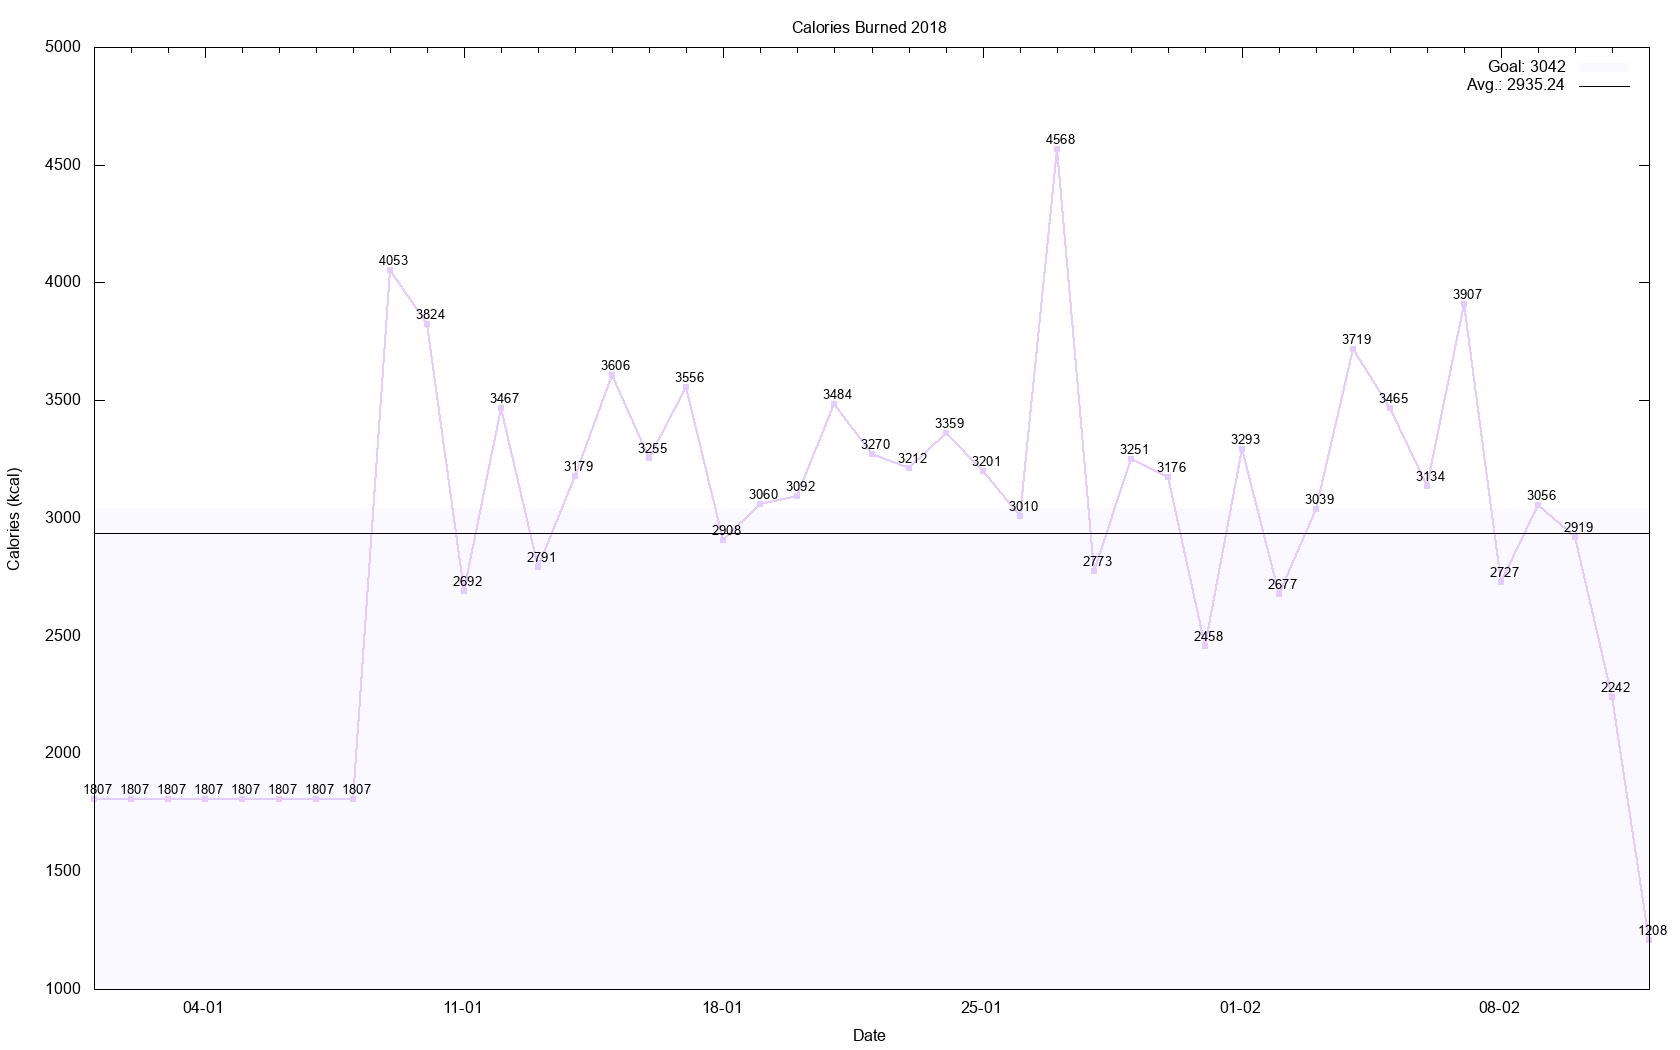
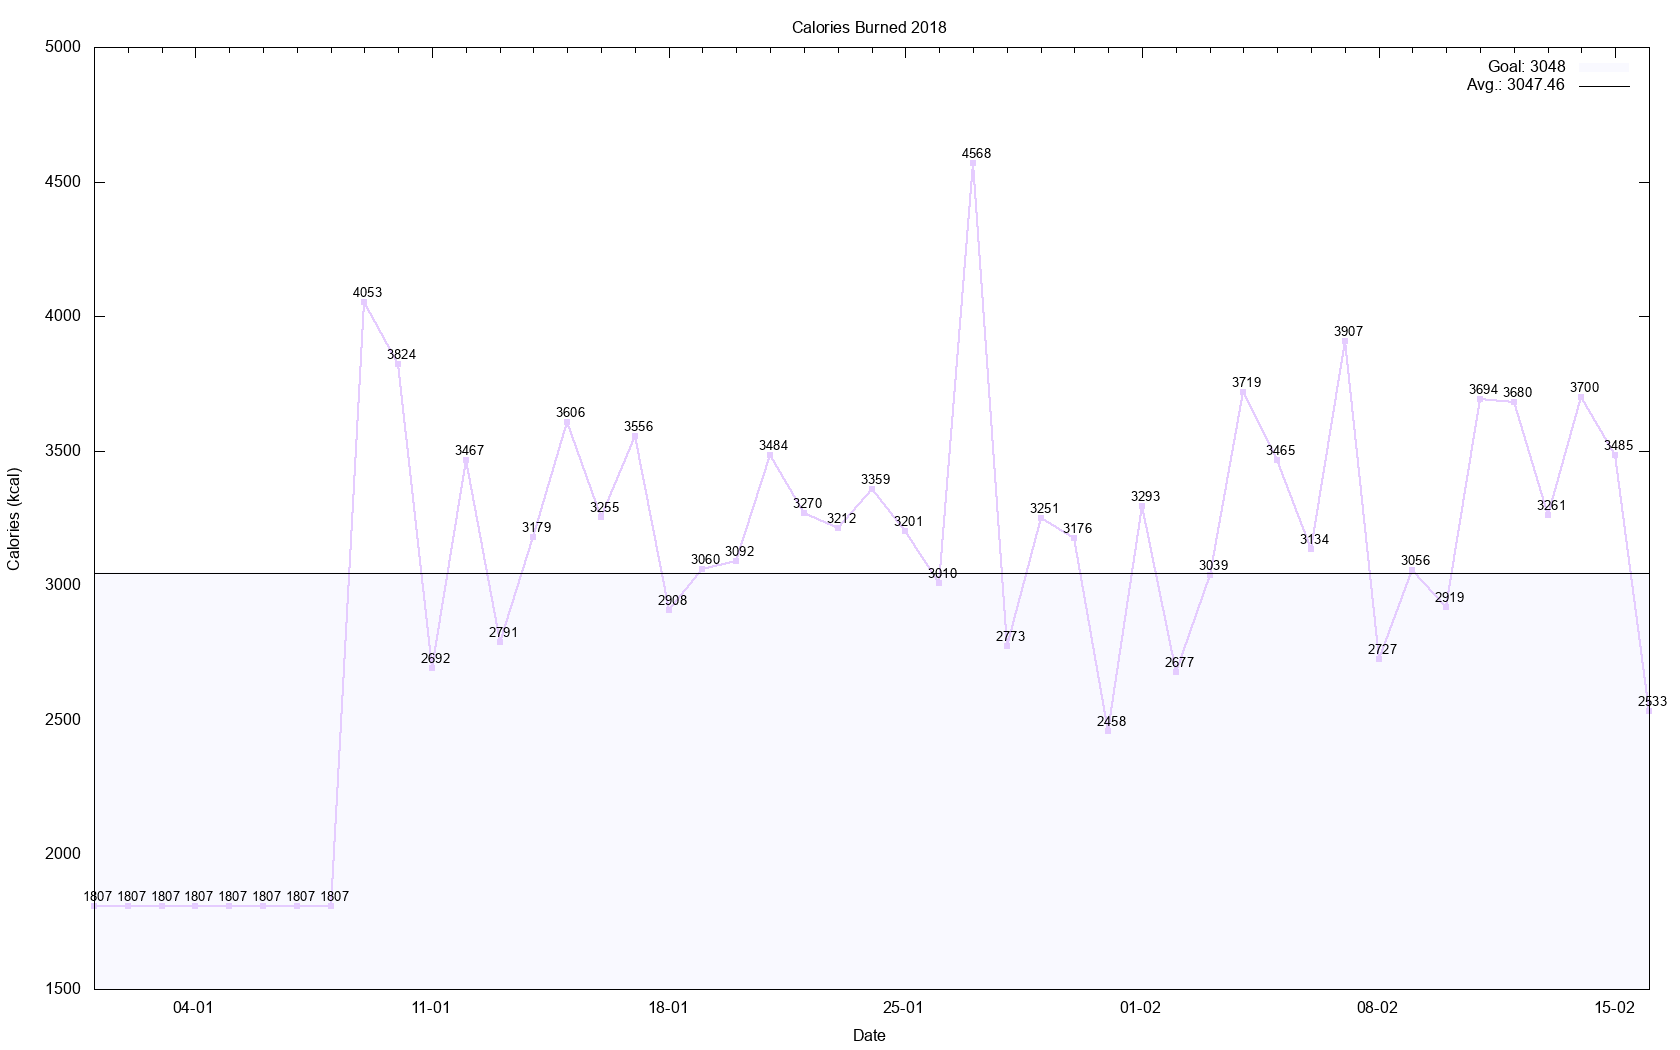
Updated readme.

diff --git a/README.md b/README.md
@@ -21,7 +21,7 @@ to plot the graphs.
 a csv. You can export up to 31 days of data at any one time. Selecting "Last 
 month" is, therefore, a good place to start: 
 
-<img src="Images/export.png" width="700">
+<img src="Images/export.png" width="900">
 
 (2) Execute fitplot on the downloaded csv file:
 
@@ -37,7 +37,7 @@ your working directory.
 
 Graphs include *mean* and *goal* values. The mean value is plotted as a black 
 line and the top of the purple filled rectangle is the goal. For example, in 
-the calories graph above, my goal is 3042 kcal/day, and my average for January 
+the calories graph above, my goal is 3048 kcal/day, and my average for January 
 was 2930 kcal/day. Goal values can be changed inside the script (see later).
 
 ## Bonus
@@ -52,28 +52,28 @@ year-to-date graphs using the `ytd` flag:
 The same three graphs will be generated, but this time they display year-to-date 
 data:
 
-<img src="Images/calories_ytd.png" width="700">
+<img src="Images/calories_ytd.png" width="900">
 
 ## How can I set my goals?
 Edit the following variables in the script:
 
 ```bash
-4: goalCals=3042    # kcal
+4: goalCals=3048    # kcal
 5: goalSteps=10000    
-6: goalDistance=5   # km
+6: goalDistance=8   # km
 ```
 
 ## Additional settings
-The script needs a location to store output graphs and to maintain the 
-year-to-date csv file. I've set that to the working directory temporarily but 
+The script needs a location to store output graphs and to maintain 
+year-to-date csv files. I've set that to the working directory temporarily but 
 please change it to a static location by amending the following variable:
 
 ```bash
 13: outFP="./" 
 ```
 
-The script also makes use of a single temporary file, which can be named anything
-you like so long as it's accessible. The temporary file is used when 
+The script also makes use of a single temporary file, which can be named 
+anything you like so long as it's accessible. The temporary file is used when 
 copying/sorting/making sense of the questionable csv formatting offered by
 FitBit. Change the filepath if you wish by amending the following variable:
 
@@ -112,7 +112,6 @@ line:
 196: calsPoints=..
 197: calsMean=..
 ```
-
 
 Anyone wishing to change the appearance of graphs thus need only 
 change/remove/add individual components. Ultimately some knowledge of bash and 
